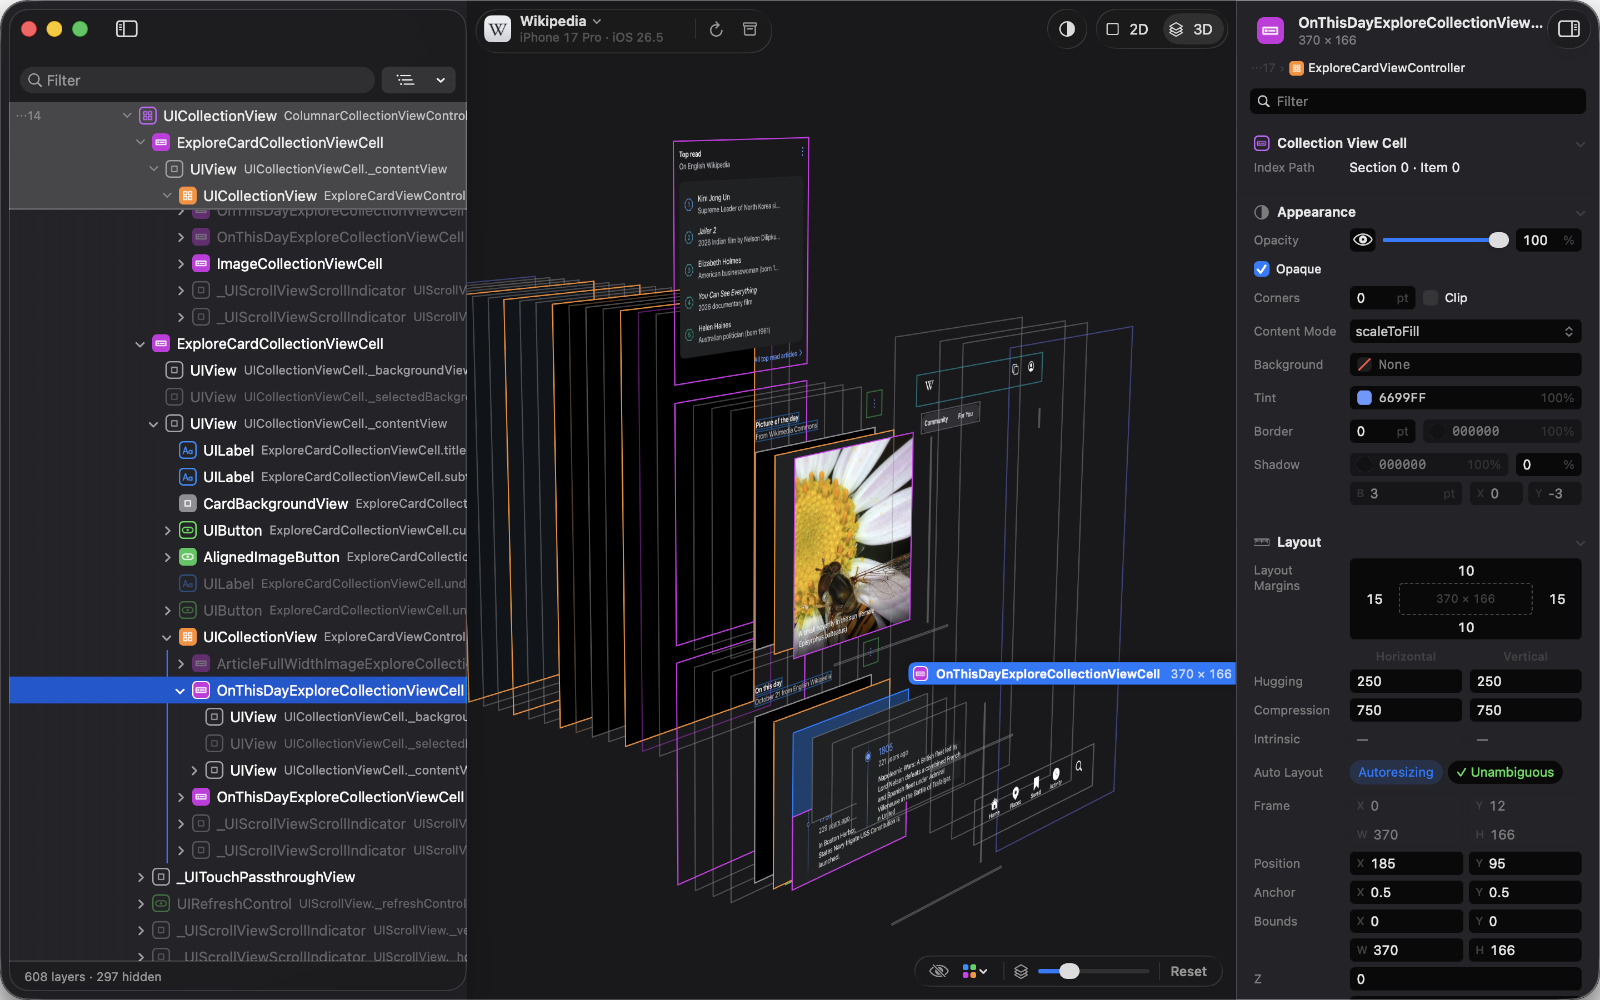
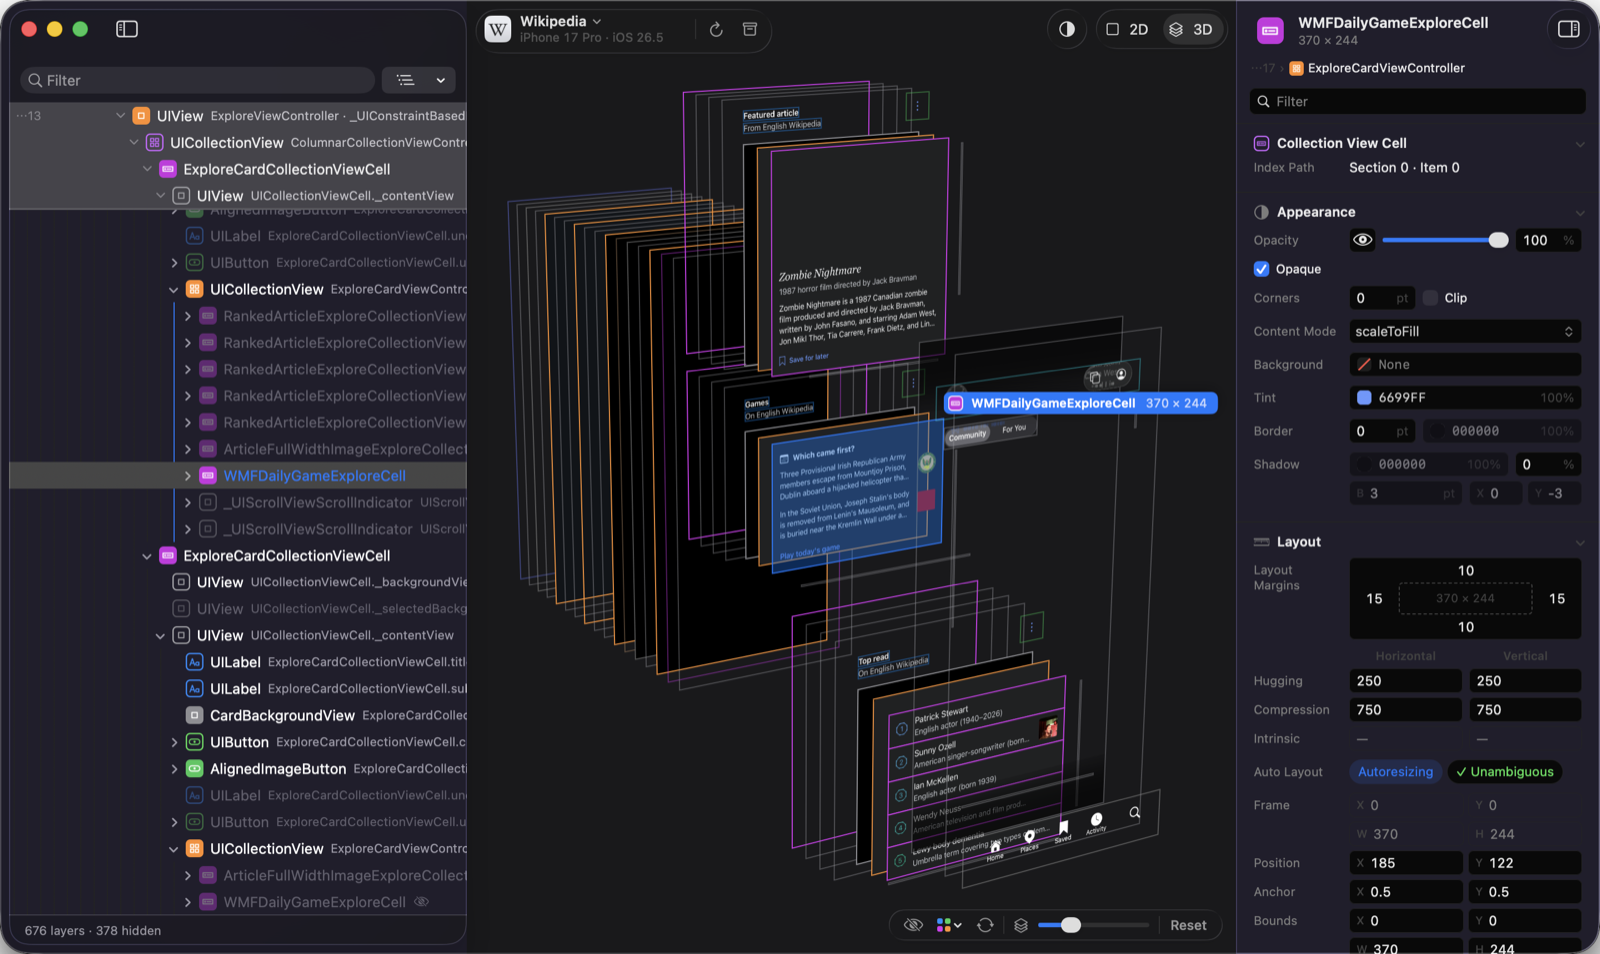
docs: add following the app to the READMEs
Each README gets a line for following the app, and the overview pictures
match the website's.

diff --git a/Resources/readme/README.fr.md b/Resources/readme/README.fr.md
@@ -34,6 +34,7 @@ d'exécution.
 
 - **Voyez comment l'interface est construite.** L'arbre des calques de chaque fenêtre, avec les contrôleurs de vue et les variables membres qui détiennent chaque vue signalés. [La liste des calques](https://nothingsh.github.io/Cutaway/guide/hierarchy)
 - **Démontez-la en 3D.** Une capture de chaque calque, à plat en 2D ou écartés en 3D ; faites pivoter, zoomez, changez l'espacement. [L'aperçu](https://nothingsh.github.io/Cutaway/guide/preview)
+- **Suivre l’app.** L’aperçu se rafraîchit tout seul quand les calques de l’app changent et marque ce qui a changé. En 2D, il montre la fenêtre telle que l’app l’a composée, avec les flous et Liquid Glass. [Actualiser](https://nothingsh.github.io/Cutaway/guide/preview#refresh)
 - **Mesurez.** Maintenez ⌥ et pointez un autre calque, dans l'aperçu ou dans la liste, pour voir les distances en points. [Mesurer](https://nothingsh.github.io/Cutaway/guide/measuring)
 - **Modifiez-la pendant qu'elle tourne.** Modifiez des attributs : ils s'appliquent aussitôt à l'app en cours d'exécution, et ⌘Z les annule. [Attributs](https://nothingsh.github.io/Cutaway/guide/attributes)
 - **Suivez les contraintes.** Chaque contrainte Auto Layout d'une vue, celles qui ne s'appliquent pas signalées, et leurs autres extrémités. [Contraintes](https://nothingsh.github.io/Cutaway/guide/constraints)

diff --git a/Resources/readme/README.de.md b/Resources/readme/README.de.md
@@ -34,6 +34,7 @@ App angewendet.
 
 - **Sehen, wie die Oberfläche aufgebaut ist.** Der Layer-Baum jedes Fensters, mit markierten View-Controllern und den Member-Variablen, die jede View halten. [Die Layer-Liste](https://nothingsh.github.io/Cutaway/guide/hierarchy)
 - **In 3D zerlegen.** Ein Screenshot jedes Layers, flach in 2D oder in 3D auseinandergezogen; drehen, zoomen, den Abstand ändern. [Die Vorschau](https://nothingsh.github.io/Cutaway/guide/preview)
+- **Der App folgen.** Die Vorschau aktualisiert sich selbst, wenn sich die Layer der App ändern, und markiert, was sich geändert hat. In 2D zeigt sie das Fenster so, wie die App es zusammengesetzt hat, mit Unschärfe und Liquid Glass. [Aktualisieren](https://nothingsh.github.io/Cutaway/guide/preview#refresh)
 - **Messen.** Halten Sie ⌥ gedrückt und zeigen Sie auf einen anderen Layer, in der Vorschau oder in der Liste, um die Abstände in Punkten zu sehen. [Messen](https://nothingsh.github.io/Cutaway/guide/measuring)
 - **Im laufenden Betrieb ändern.** Bearbeitete Attribute wirken sofort in der laufenden App; ⌘Z macht sie rückgängig. [Attribute](https://nothingsh.github.io/Cutaway/guide/attributes)
 - **Den Constraints folgen.** Jeder Auto-Layout-Constraint einer View, die nicht wirksamen markiert, und ihre anderen Enden. [Constraints](https://nothingsh.github.io/Cutaway/guide/constraints)

diff --git a/Resources/readme/README.es.md b/Resources/readme/README.es.md
@@ -33,6 +33,7 @@ hagas en los atributos se aplican a la app en ejecución.
 
 - **Mira cómo está construida la interfaz.** El árbol de capas de cada ventana, con los controladores de vista y las variables miembro que contienen cada vista marcados. [La lista de capas](https://nothingsh.github.io/Cutaway/guide/hierarchy)
 - **Desármala en 3D.** Una captura de cada capa, plana en 2D o separada en 3D; gira, haz zoom y cambia la separación. [La vista previa](https://nothingsh.github.io/Cutaway/guide/preview)
+- **Sigue a la app.** La vista previa se actualiza sola cuando cambian las capas de la app y marca lo que ha cambiado. En 2D muestra la ventana tal como la compuso la app, con desenfoques y Liquid Glass. [Actualizar](https://nothingsh.github.io/Cutaway/guide/preview#refresh)
 - **Mide.** Mantén pulsada ⌥ y señala otra capa, en la vista previa o en la lista, para ver las distancias en puntos. [Medir](https://nothingsh.github.io/Cutaway/guide/measuring)
 - **Cámbiala mientras se ejecuta.** Edita atributos y se aplican al instante en la app en ejecución; ⌘Z los deshace. [Atributos](https://nothingsh.github.io/Cutaway/guide/attributes)
 - **Sigue las restricciones.** Cada restricción de Auto Layout de una vista, con las que no están en vigor marcadas, y sus otros extremos. [Restricciones](https://nothingsh.github.io/Cutaway/guide/constraints)

diff --git a/README.md b/README.md
@@ -30,6 +30,7 @@ running app.
 
 - **See how the interface is built.** The layer tree of every window, with view controllers and the member variables that hold each view marked. [The layer list](https://nothingsh.github.io/Cutaway/guide/hierarchy)
 - **Take it apart in 3D.** A screenshot of every layer, flat in 2D or spread apart in 3D; turn, zoom and change the spacing. [The preview](https://nothingsh.github.io/Cutaway/guide/preview)
+- **Follow the app.** The preview refreshes by itself when the app’s layers change, and marks what changed. In 2D it shows the window as the app composited it, with blurs and Liquid Glass. [Refresh](https://nothingsh.github.io/Cutaway/guide/preview#refresh)
 - **Measure.** Hold ⌥ and point at another layer, in the preview or in the list, to see the distances in points. [Measuring](https://nothingsh.github.io/Cutaway/guide/measuring)
 - **Change it while it runs.** Edit attributes and they apply in the running app at once; ⌘Z undoes them. [Attributes](https://nothingsh.github.io/Cutaway/guide/attributes)
 - **Follow the constraints.** Every Auto Layout constraint of a view, the ones not in effect marked, and their other ends. [Constraints](https://nothingsh.github.io/Cutaway/guide/constraints)
